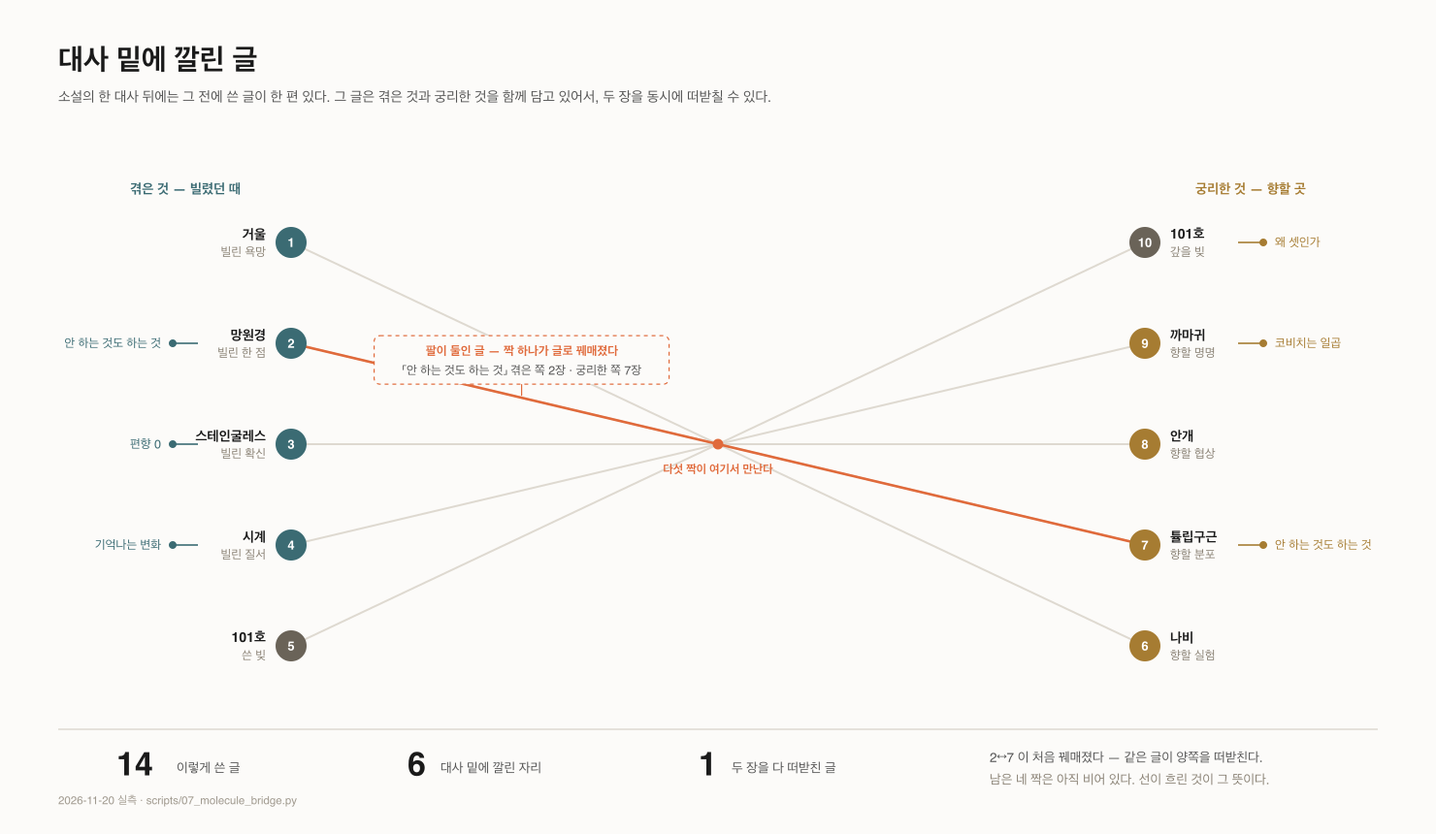
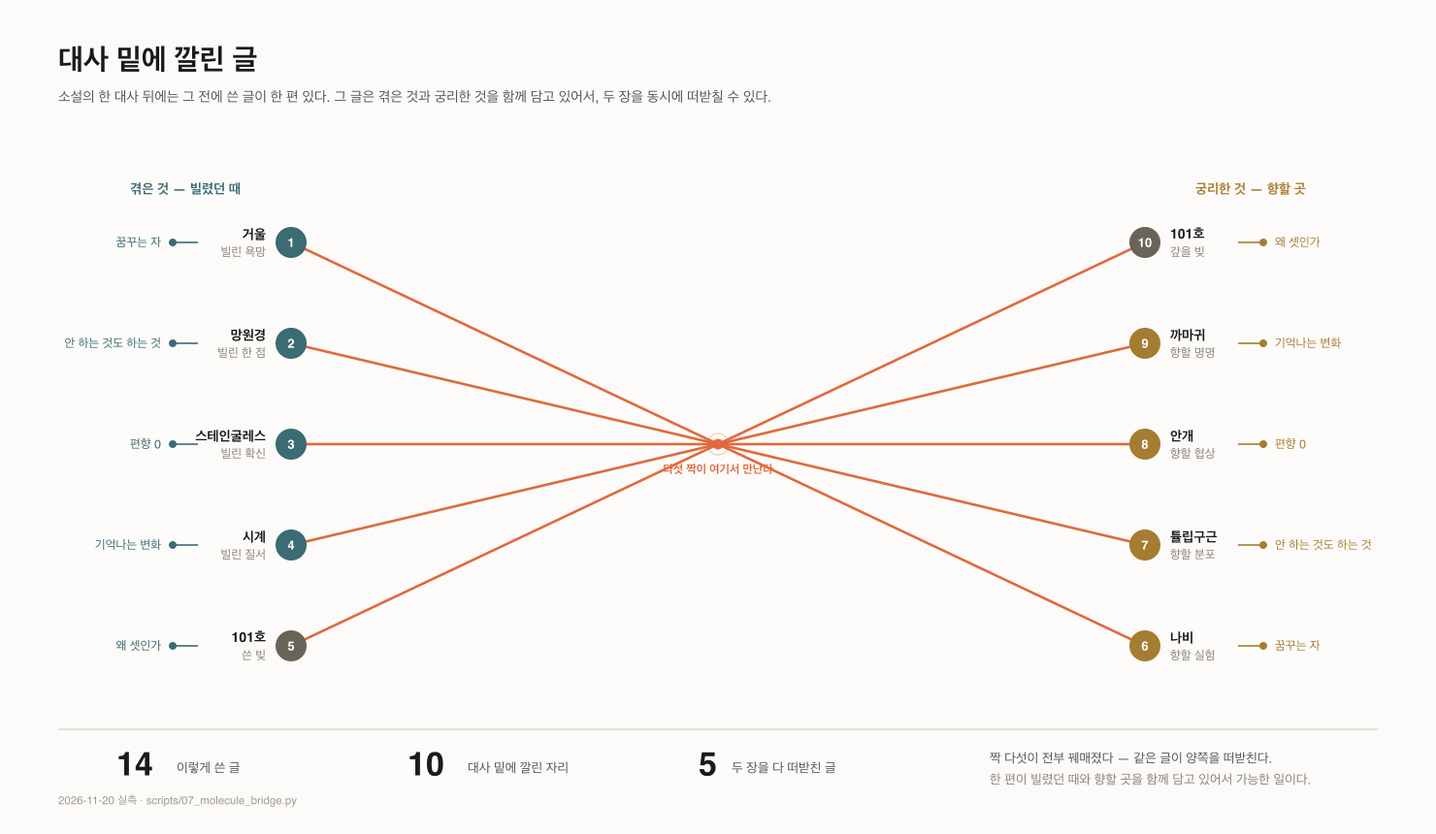
sync: from tolzul 006555f3 edit: 🍇 7장 세다의 줄에 글 하나를 깐다 — 2↔7 이 처음 꿰매졌다

diff --git a/interactive/eight_seats.html b/interactive/eight_seats.html
@@ -229,8 +229,8 @@ footer a{color:var(--dim)}
 <g class="seat hubbadge" data-ch="10" tabindex="0" role="button" aria-label="10장 101₃호"><rect x="426" y="245" width="148" height="26" rx="13" /><text x="500" y="262">10장 101₃호 · 여기서 닫는다</text></g>
 </g>
 <g class="seat" data-ch="1" tabindex="0" role="button" aria-label="1장 거울새장 — 욕망">
-<path class="arc" stroke="#5B8CFF" d="M 387.01 169.18 A 38 38 0 0 1 413.92 184.83" />
-<path class="arc rest" d="M 413.92 184.83 A 38 38 0 0 1 417.75 222.43" />
+<path class="arc" stroke="#5B8CFF" d="M 387.01 169.18 A 38 38 0 0 1 414.03 184.98" />
+<path class="arc rest" d="M 414.03 184.98 A 38 38 0 0 1 417.75 222.43" />
 <path class="arc" stroke="#5B8CFF" d="M 413.78 229.31 A 38 38 0 0 1 406.11 237.17" />
 <path class="arc rest" d="M 406.11 237.17 A 38 38 0 0 1 352.30 229.31" />
 <path class="arc" stroke="#5B8CFF" d="M 348.32 222.43 A 38 38 0 0 1 360.89 176.10" />
@@ -276,8 +276,8 @@ footer a{color:var(--dim)}
 <text class="seatsub" x="383.0" y="598.0" text-anchor="middle">시계새장 · </text>
 </g>
 <g class="seat" data-ch="6" tabindex="0" role="button" aria-label="6장 나비 — 고통">
-<path class="arc" stroke="#5B8CFF" d="M 620.93 475.23 A 38 38 0 0 1 654.72 508.70" />
-<path class="arc rest" d="M 654.72 508.70 A 38 38 0 0 1 651.68 528.48" />
+<path class="arc" stroke="#5B8CFF" d="M 620.93 475.23 A 38 38 0 0 1 654.74 508.89" />
+<path class="arc rest" d="M 654.74 508.89 A 38 38 0 0 1 651.68 528.48" />
 <path class="arc" stroke="#5B8CFF" d="M 647.70 535.36 A 38 38 0 0 1 593.91 543.24" />
 <path class="arc rest" d="M 593.91 543.24 A 38 38 0 0 1 586.22 535.36" />
 <path class="arc" stroke="#5B8CFF" d="M 582.25 528.48 A 38 38 0 0 1 603.73 477.40" />
@@ -328,9 +328,9 @@ footer a{color:var(--dim)}
 <div class="ladder">
 <div class="lhead"><span>다 · 빚을 쓴다</span><span class="lmid">짝</span><span>세 · 빚을 갚는다</span></div>
 <div class="lrow" style="--c:#5B8CFF">
-<button class="lcell" data-ch="1"><span class="lgori">다 · 빚을 쓴다</span><span class="lno">1</span><span class="lsym">🪞</span><span class="lseat">욕망</span><span class="lroom">거울새장 · </span><span class="bars"><i class="b" style="width:45%" title="경험 1888자"></i><i class="b" style="width:9%" title="지식 359자"></i><i class="b" style="width:21%" title="사례 877자"></i></span></button>
+<button class="lcell" data-ch="1"><span class="lgori">다 · 빚을 쓴다</span><span class="lno">1</span><span class="lsym">🪞</span><span class="lseat">욕망</span><span class="lroom">거울새장 · </span><span class="bars"><i class="b" style="width:45%" title="경험 1899자"></i><i class="b" style="width:9%" title="지식 359자"></i><i class="b" style="width:21%" title="사례 877자"></i></span></button>
 <span class="lline"><i></i><em>못 잰다</em><small>합의할 단위가 없다</small></span>
-<button class="lcell" data-ch="6"><span class="lgori">세 · 빚을 갚는다</span><span class="lno">6</span><span class="lsym">🦋</span><span class="lseat">고통</span><span class="lroom">나비 · 원함</span><span class="bars"><i class="b" style="width:72%" title="경험 3025자"></i><i class="b" style="width:47%" title="지식 1974자"></i><i class="b" style="width:25%" title="사례 1048자"></i></span></button>
+<button class="lcell" data-ch="6"><span class="lgori">세 · 빚을 갚는다</span><span class="lno">6</span><span class="lsym">🦋</span><span class="lseat">고통</span><span class="lroom">나비 · 원함</span><span class="bars"><i class="b" style="width:72%" title="경험 3036자"></i><i class="b" style="width:47%" title="지식 1974자"></i><i class="b" style="width:25%" title="사례 1048자"></i></span></button>
 </div>
 <div class="lrow" style="--c:#A277E8">
 <button class="lcell" data-ch="2"><span class="lgori">다 · 빚을 쓴다</span><span class="lno">2</span><span class="lsym">🔭</span><span class="lseat">상상</span><span class="lroom">망원경새장 · </span><span class="bars"><i class="b" style="width:100%" title="경험 4217자"></i><i class="b" style="width:10%" title="지식 408자"></i><i class="b" style="width:16%" title="사례 675자"></i></span></button>
@@ -364,15 +364,15 @@ footer a{color:var(--dim)}
 <p class="note">여덟 장 × 세 파트 = <b>24칸</b>. 찬 칸 <b>24</b>, 빈 칸 <b>0</b>.
 글자수는 본문만 센 것이다(인용줄·표·머리 제외).</p>
 <table class="led"><thead><tr><th>장</th><th>자리</th><th>§1 경험</th><th>§2 지식</th><th>§3 사례</th></tr></thead><tbody>
-<tr><td class="c">1 🪞</td><td class="s">욕망</td><td class="n">1,888</td><td class="n">359</td><td class="n">877</td></tr>
+<tr><td class="c">1 🪞</td><td class="s">욕망</td><td class="n">1,899</td><td class="n">359</td><td class="n">877</td></tr>
 <tr><td class="c">2 🔭</td><td class="s">상상</td><td class="n">4,217</td><td class="n">408</td><td class="n">675</td></tr>
 <tr><td class="c">3 💒</td><td class="s">설득</td><td class="n">3,592</td><td class="n">546</td><td class="n">653</td></tr>
 <tr><td class="c">4 ⏱</td><td class="s">폭파</td><td class="n">3,901</td><td class="n">476</td><td class="n">612</td></tr>
-<tr><td class="c">6 🦋</td><td class="s">고통</td><td class="n">3,025</td><td class="n">1,974</td><td class="n">1,048</td></tr>
+<tr><td class="c">6 🦋</td><td class="s">고통</td><td class="n">3,036</td><td class="n">1,974</td><td class="n">1,048</td></tr>
 <tr><td class="c">7 🧅</td><td class="s">지식</td><td class="n">3,239</td><td class="n">970</td><td class="n">1,209</td></tr>
 <tr><td class="c">8 🌫</td><td class="s">손익</td><td class="n">3,069</td><td class="n">1,671</td><td class="n">1,124</td></tr>
 <tr><td class="c">9 🐦⬛</td><td class="s">기준</td><td class="n">3,334</td><td class="n">2,334</td><td class="n">880</td></tr>
-<tr class="sum"><td class="c">합</td><td class="s"></td><td class="n">26,265</td><td class="n">8,738</td><td class="n">7,078</td></tr>
+<tr class="sum"><td class="c">합</td><td class="s"></td><td class="n">26,287</td><td class="n">8,738</td><td class="n">7,078</td></tr>
 </tbody></table>
 <div class="punch"><b>24칸이 다 찼다</b> — 새장 넷도 둥지 넷도 §1 경험·§2 지식·§3 사례가 모두 있다. 5·10장은 세 파트를 아예 안 쓴다(이음새, 장면 하나) — 구멍이 아니라 설계다.</div>
 
@@ -389,7 +389,7 @@ footer a{color:var(--dim)}
 </footer>
 </div>
 <script>
-const D = {"1": {"no": 1, "sym": "🪞", "room": "거울새장", "seat": "욕망", "unit": "bit", "verb": "", "gori": "다 · 빚을 쓴다", "gorisub": "체순환 · 앞서 달린다", "jam": "못 잰다", "jamsub": "합의할 단위가 없다", "pair": 6, "line": "<b>모방</b> 남이 꿈꾼 파리를 꿈꾼다 → <b>위안</b> 이건 진짜 내가 원한 거야 → <b>붕괴</b> 청구서가 쌓인다", "triad": "<b>모방</b> 남이 꿈꾼 파리를 꿈꾼다 → <b>위안</b> 이건 진짜 내가 원한 거야 → <b>붕괴</b> 청구서가 쌓인다", "opener": "가장 나다운 욕망일수록, 가장 남의 것이다.", "parts": {"경험": 1888, "지식": 359, "사례": 877}, "web": "ch1_mirror_cage"}, "2": {"no": 2, "sym": "🔭", "room": "망원경새장", "seat": "상상", "unit": "atom", "verb": "", "gori": "다 · 빚을 쓴다", "gorisub": "체순환 · 앞서 달린다", "jam": "못 잰다", "jamsub": "합의할 단위가 없다", "pair": 7, "line": "<b>모방</b> 아버지들의 시선을 물려받는다 → <b>위안</b> 다 보이니 움직일 필요 없다 → <b>붕괴</b> 가리발디가 상륙한다", "triad": "<b>모방</b> 아버지들의 시선을 물려받는다 → <b>위안</b> 다 보이니 움직일 필요 없다 → <b>붕괴</b> 가리발디가 상륙한다", "opener": "", "parts": {"경험": 4217, "지식": 408, "사례": 675}, "web": "ch2_telescope_cage"}, "3": {"no": 3, "sym": "💒", "room": "스테인굴레스새장", "seat": "설득", "unit": "cell", "verb": "", "gori": "다 · 빚을 쓴다", "gorisub": "체순환 · 앞서 달린다", "jam": "잰다", "jamsub": "$ · 시간 · 확률", "pair": 8, "line": "<b>모방</b> 배운 교리로 역병을 읽는다 → <b>위안</b> 역병은 신의 벌이다 → <b>붕괴</b> 아이가 죽는다", "triad": "<b>모방</b> 배운 교리로 역병을 읽는다 → <b>위안</b> 역병은 신의 벌이다 → <b>붕괴</b> 아이가 죽는다", "opener": "---", "parts": {"경험": 3592, "지식": 546, "사례": 653}, "web": "ch3_glass_cage"}, "4": {"no": 4, "sym": "⏱", "room": "시계새장", "seat": "폭파", "unit": "second", "verb": "", "gori": "다 · 빚을 쓴다", "gorisub": "체순환 · 앞서 달린다", "jam": "잰다", "jamsub": "$ · 시간 · 확률", "pair": 9, "line": "<b>모방</b> 빌린 문명을 섬에 세운다 → <b>위안</b> 문명이 나를 지킨다 → <b>붕괴</b> 화약 동굴이 터진다", "triad": "<b>모방</b> 빌린 문명을 섬에 세운다 → <b>위안</b> 문명이 나를 지킨다 → <b>붕괴</b> 화약 동굴이 터진다", "opener": "---", "parts": {"경험": 3901, "지식": 476, "사례": 612}, "web": "ch4_clock_cage"}, "6": {"no": 6, "sym": "🦋", "room": "나비", "seat": "고통", "unit": "bit", "verb": "원함", "gori": "세 · 빚을 갚는다", "gorisub": "폐순환 · 지켜보며 갚는다", "jam": "못 잰다", "jamsub": "합의할 단위가 없다", "pair": 1, "line": "빌린 옷은, 옷인 줄 알고 입을 때부터 몸에 맞기 시작한다.", "triad": "", "opener": "송 릴링은 20년간 상대를 속인 게 아니다. 자기가 입은 게 진짜 <i>살</i>이 아니라 <i>옷</i>임을 처음부터 알았다. 엠마(1장)는 빌린 욕망을 살인 줄 알고 삼켜졌고, 송은 옷인 줄 알고 입었다— <b>단어 하나 차이.</b>", "parts": {"경험": 3025, "지식": 1974, "사례": 1048}, "web": "ch6_butterfly_nest"}, "7": {"no": 7, "sym": "🧅", "room": "튤립", "seat": "지식", "unit": "atom", "verb": "됨", "gori": "세 · 빚을 갚는다", "gorisub": "폐순환 · 지켜보며 갚는다", "jam": "못 잰다", "jamsub": "합의할 단위가 없다", "pair": 2, "line": "정확히 보는 눈은 아무것도 피우지 못한다— 한 알을 손바닥에 올리는 손이 있기 전까지는.", "triad": "", "opener": "2장이 넘겨준 문장이 이 장의 자물쇠다— &quot;망원경은 별을 당겨 보여주지만, 별까지 데려다주진 않아요.&quot; 살리나는 그 렌즈를 <b>품위</b>라 불렀고, 복스텔은 같은 렌즈를 <b>시기</b>에 썼다.", "parts": {"경험": 3239, "지식": 970, "사례": 1209}, "web": "ch7_tulip_nest"}, "8": {"no": 8, "sym": "🌫", "room": "안개", "seat": "손익", "unit": "cell", "verb": "버팀", "gori": "세 · 빚을 갚는다", "gorisub": "폐순환 · 지켜보며 갚는다", "jam": "잰다", "jamsub": "$ · 시간 · 확률", "pair": 3, "line": "확신은 스테인굴레스고 협상은 안개다— 바깥이 보이는 쪽은, 뿌연 쪽이다.", "triad": "", "opener": "3장이 넘겨준 자물쇠는 말의 <b>방향</b>이다. 파늘루는 설교했다— 말이 한쪽으로만 간다. 유리가 투명할수록 설교하는 쪽은 바깥을 본다고 믿고, 듣는 쪽은 유리를 두드릴 자리를 못 찾는다. 안개는 그 유리를 뿌옇게 만들어 <b>말이 되돌아올 틈</b>을 낸다. 확신과 협상은 같은 입의 두 방향이다— 하나는 내 확신을 상대에게 옮기고, 하나는 상대의 되물음을 내가 받는다. 그래서 서명 전에 세어야 할 것은 내가 몇 번 설득했나가 아니라 <b>몇 번 되물음을 받았나</b>다.", "parts": {"경험": 3069, "지식": 1671, "사례": 1124}, "web": "ch8_mist_nest"}, "9": {"no": 9, "sym": "🐦⬛", "room": "까마귀", "seat": "기준", "unit": "second", "verb": "함", "gori": "세 · 빚을 갚는다", "gorisub": "폐순환 · 지켜보며 갚는다", "jam": "잰다", "jamsub": "$ · 시간 · 확률", "pair": 4, "line": "입에 문 빛은 삼키면 블랙홀이고, 나눠 던지면 궤도가 된다.", "triad": "", "opener": "4장은 합력이다— 1·2·3장의 빚이 합쳐져 폭발한다(Σ cage). 9장도 합력이다— 6·7·8장의 원함·됨·버팀이 모여 <i>함</i>이 된다(Σ nest). <b>두 합력이 서로의 거울이다.</b> 다만 4장의 합은 밖으로 터지고, 9장의 합은 안으로 모인다. 곱셈이라 6·7·8 중 하나라도 0이면 9는 공허하다.", "parts": {"경험": 3334, "지식": 2334, "사례": 880}, "web": "ch9_raven_nest"}, "5": {"no": 5, "sym": "🐀", "room": "101₂호", "unit": "bit", "seat": "기억", "verb": "이음새", "gori": "101 · 한 점", "gorisub": "두 번 지난다", "jam": "세 파트를 안 쓴다", "jamsub": "장면 하나다 — 구멍이 아니라 설계", "pair": 10, "line": "부순 사람이 제일 먼저 하는 일은 다시 짓는 게 아니다. 앉는 것이다.", "triad": "", "opener": "", "parts": {}, "web": "ch5_mirror_nest"}, "10": {"no": 10, "sym": "🧫", "room": "101₃호", "unit": "cell", "seat": "기억", "verb": "이음새", "gori": "101 · 한 점", "gorisub": "두 번 지난다", "jam": "세 파트를 안 쓴다", "jamsub": "장면 하나다 — 구멍이 아니라 설계", "pair": 5, "line": "빚을 쓴 방과 빚을 갚는 방은 같은 방이다.", "triad": "", "opener": "", "parts": {}, "web": "ch10_mirror_close"}};
+const D = {"1": {"no": 1, "sym": "🪞", "room": "거울새장", "seat": "욕망", "unit": "bit", "verb": "", "gori": "다 · 빚을 쓴다", "gorisub": "체순환 · 앞서 달린다", "jam": "못 잰다", "jamsub": "합의할 단위가 없다", "pair": 6, "line": "<b>모방</b> 남이 꿈꾼 파리를 꿈꾼다 → <b>위안</b> 이건 진짜 내가 원한 거야 → <b>붕괴</b> 청구서가 쌓인다", "triad": "<b>모방</b> 남이 꿈꾼 파리를 꿈꾼다 → <b>위안</b> 이건 진짜 내가 원한 거야 → <b>붕괴</b> 청구서가 쌓인다", "opener": "가장 나다운 욕망일수록, 가장 남의 것이다.", "parts": {"경험": 1899, "지식": 359, "사례": 877}, "web": "ch1_mirror_cage"}, "2": {"no": 2, "sym": "🔭", "room": "망원경새장", "seat": "상상", "unit": "atom", "verb": "", "gori": "다 · 빚을 쓴다", "gorisub": "체순환 · 앞서 달린다", "jam": "못 잰다", "jamsub": "합의할 단위가 없다", "pair": 7, "line": "<b>모방</b> 아버지들의 시선을 물려받는다 → <b>위안</b> 다 보이니 움직일 필요 없다 → <b>붕괴</b> 가리발디가 상륙한다", "triad": "<b>모방</b> 아버지들의 시선을 물려받는다 → <b>위안</b> 다 보이니 움직일 필요 없다 → <b>붕괴</b> 가리발디가 상륙한다", "opener": "", "parts": {"경험": 4217, "지식": 408, "사례": 675}, "web": "ch2_telescope_cage"}, "3": {"no": 3, "sym": "💒", "room": "스테인굴레스새장", "seat": "설득", "unit": "cell", "verb": "", "gori": "다 · 빚을 쓴다", "gorisub": "체순환 · 앞서 달린다", "jam": "잰다", "jamsub": "$ · 시간 · 확률", "pair": 8, "line": "<b>모방</b> 배운 교리로 역병을 읽는다 → <b>위안</b> 역병은 신의 벌이다 → <b>붕괴</b> 아이가 죽는다", "triad": "<b>모방</b> 배운 교리로 역병을 읽는다 → <b>위안</b> 역병은 신의 벌이다 → <b>붕괴</b> 아이가 죽는다", "opener": "---", "parts": {"경험": 3592, "지식": 546, "사례": 653}, "web": "ch3_glass_cage"}, "4": {"no": 4, "sym": "⏱", "room": "시계새장", "seat": "폭파", "unit": "second", "verb": "", "gori": "다 · 빚을 쓴다", "gorisub": "체순환 · 앞서 달린다", "jam": "잰다", "jamsub": "$ · 시간 · 확률", "pair": 9, "line": "<b>모방</b> 빌린 문명을 섬에 세운다 → <b>위안</b> 문명이 나를 지킨다 → <b>붕괴</b> 화약 동굴이 터진다", "triad": "<b>모방</b> 빌린 문명을 섬에 세운다 → <b>위안</b> 문명이 나를 지킨다 → <b>붕괴</b> 화약 동굴이 터진다", "opener": "---", "parts": {"경험": 3901, "지식": 476, "사례": 612}, "web": "ch4_clock_cage"}, "6": {"no": 6, "sym": "🦋", "room": "나비", "seat": "고통", "unit": "bit", "verb": "원함", "gori": "세 · 빚을 갚는다", "gorisub": "폐순환 · 지켜보며 갚는다", "jam": "못 잰다", "jamsub": "합의할 단위가 없다", "pair": 1, "line": "빌린 옷은, 옷인 줄 알고 입을 때부터 몸에 맞기 시작한다.", "triad": "", "opener": "송 릴링은 20년간 상대를 속인 게 아니다. 자기가 입은 게 진짜 <i>살</i>이 아니라 <i>옷</i>임을 처음부터 알았다. 엠마(1장)는 빌린 욕망을 살인 줄 알고 삼켜졌고, 송은 옷인 줄 알고 입었다— <b>단어 하나 차이.</b>", "parts": {"경험": 3036, "지식": 1974, "사례": 1048}, "web": "ch6_butterfly_nest"}, "7": {"no": 7, "sym": "🧅", "room": "튤립", "seat": "지식", "unit": "atom", "verb": "됨", "gori": "세 · 빚을 갚는다", "gorisub": "폐순환 · 지켜보며 갚는다", "jam": "못 잰다", "jamsub": "합의할 단위가 없다", "pair": 2, "line": "정확히 보는 눈은 아무것도 피우지 못한다— 한 알을 손바닥에 올리는 손이 있기 전까지는.", "triad": "", "opener": "2장이 넘겨준 문장이 이 장의 자물쇠다— &quot;망원경은 별을 당겨 보여주지만, 별까지 데려다주진 않아요.&quot; 살리나는 그 렌즈를 <b>품위</b>라 불렀고, 복스텔은 같은 렌즈를 <b>시기</b>에 썼다.", "parts": {"경험": 3239, "지식": 970, "사례": 1209}, "web": "ch7_tulip_nest"}, "8": {"no": 8, "sym": "🌫", "room": "안개", "seat": "손익", "unit": "cell", "verb": "버팀", "gori": "세 · 빚을 갚는다", "gorisub": "폐순환 · 지켜보며 갚는다", "jam": "잰다", "jamsub": "$ · 시간 · 확률", "pair": 3, "line": "확신은 스테인굴레스고 협상은 안개다— 바깥이 보이는 쪽은, 뿌연 쪽이다.", "triad": "", "opener": "3장이 넘겨준 자물쇠는 말의 <b>방향</b>이다. 파늘루는 설교했다— 말이 한쪽으로만 간다. 유리가 투명할수록 설교하는 쪽은 바깥을 본다고 믿고, 듣는 쪽은 유리를 두드릴 자리를 못 찾는다. 안개는 그 유리를 뿌옇게 만들어 <b>말이 되돌아올 틈</b>을 낸다. 확신과 협상은 같은 입의 두 방향이다— 하나는 내 확신을 상대에게 옮기고, 하나는 상대의 되물음을 내가 받는다. 그래서 서명 전에 세어야 할 것은 내가 몇 번 설득했나가 아니라 <b>몇 번 되물음을 받았나</b>다.", "parts": {"경험": 3069, "지식": 1671, "사례": 1124}, "web": "ch8_mist_nest"}, "9": {"no": 9, "sym": "🐦⬛", "room": "까마귀", "seat": "기준", "unit": "second", "verb": "함", "gori": "세 · 빚을 갚는다", "gorisub": "폐순환 · 지켜보며 갚는다", "jam": "잰다", "jamsub": "$ · 시간 · 확률", "pair": 4, "line": "입에 문 빛은 삼키면 블랙홀이고, 나눠 던지면 궤도가 된다.", "triad": "", "opener": "4장은 합력이다— 1·2·3장의 빚이 합쳐져 폭발한다(Σ cage). 9장도 합력이다— 6·7·8장의 원함·됨·버팀이 모여 <i>함</i>이 된다(Σ nest). <b>두 합력이 서로의 거울이다.</b> 다만 4장의 합은 밖으로 터지고, 9장의 합은 안으로 모인다. 곱셈이라 6·7·8 중 하나라도 0이면 9는 공허하다.", "parts": {"경험": 3334, "지식": 2334, "사례": 880}, "web": "ch9_raven_nest"}, "5": {"no": 5, "sym": "🐀", "room": "101₂호", "unit": "bit", "seat": "기억", "verb": "이음새", "gori": "101 · 한 점", "gorisub": "두 번 지난다", "jam": "세 파트를 안 쓴다", "jamsub": "장면 하나다 — 구멍이 아니라 설계", "pair": 10, "line": "부순 사람이 제일 먼저 하는 일은 다시 짓는 게 아니다. 앉는 것이다.", "triad": "", "opener": "", "parts": {}, "web": "ch5_mirror_nest"}, "10": {"no": 10, "sym": "🧫", "room": "101₃호", "unit": "cell", "seat": "기억", "verb": "이음새", "gori": "101 · 한 점", "gorisub": "두 번 지난다", "jam": "세 파트를 안 쓴다", "jamsub": "장면 하나다 — 구멍이 아니라 설계", "pair": 5, "line": "빚을 쓴 방과 빚을 갚는 방은 같은 방이다.", "triad": "", "opener": "", "parts": {}, "web": "ch10_mirror_close"}};
 const ORDER = [1,2,3,4,5,6,7,8,9,10];
 const HINT = {
  snake:'<b>뱀</b> — 한 획이다. 1·2·3·4 로 왼 고리를 돌고 가운데(<b>5장</b>)에서 <b>돌아서</b> 9·8·7·6 을 되짚은 뒤 같은 점(<b>10장</b>)에서 닫는다. 책 순서는 6→9 인데 몸의 순서는 9→6 이다 — <b>뒤집으면 방향도 뒤집히기</b> 때문이고, 5장 이름이 「회전축」인 자리가 거기다. 순서가 뒤집혀도 같은 몸이면 <b>시간 순서가 뜻을 못 바꾼다</b> — <b>부분적 교환가능성</b>이 작도로 선 자리다(#158).',

diff --git a/chapters/ch1_mirror_cage.md b/chapters/ch1_mirror_cage.md
@@ -15,7 +15,7 @@
 
 > **네 빚.** 지금 네가 가장 원하는 것 하나를 떠올려 봐라— 그 회사, 그 커리어, 그 제품, 그 앱. 그게 정말 네 것인가, 아니면 누군가 원하는 걸 네가 본 것인가. 할머니를 위해 앱을 짓는다면서, 실은 데모데이의 박수를 짓고 있는 건 아닌가. 이게 빌린 욕망인가— 이 장은 그 옷의 솔기를 더듬는다.
 
-이 책은 열 개의 방을 지난다. 첫 방의 이름은 거울새장이다. 새장은 문이 열려 있어도 새가 안 나가는 구조물이다. 엠마 보바리는 이 방에서 빌린 옷을 자기 살로 착각한 채 죽는다. **cage = 욕망을 *모르고* 입기.**
+이 책은 열 개의 방을 지난다. 첫 방의 이름은 거울새장이다. 새장은 문이 열려 있어도 새가 안 나가는 구조물이다. 엠마 보바리는 이 방에서 빌린 옷을 자기 살로 착각한 채 죽는다. **cage = 욕망을 *모르고* 입기.** <sup>[글](../docs/essays/49_dreamer_believes.md)</sup>
 
 그리고 이 거울은 여섯 번째 방에서 다시 돌아온다. 6🦋_나비사용자의 송 릴링은 똑같은 거울 앞에 선다. 다른 것은 단 하나— 그는 자기가 무엇을 입고 있는지 *안다*. 연기하는 자기를 거울에서 본다. 엠마는 빌린 옷을 벗을 줄 몰랐고, 나비는 언제든 벗을 수 있는 옷으로 입는다. 같은 거울, 뒤집힌 앎. 모르고 입기(1장) ↔ 알면서 입기(6장). 한 글자만 비틀면 새장이 둥지가 된다.
 

diff --git a/chapters/ch6_butterfly_nest.md b/chapters/ch6_butterfly_nest.md
@@ -27,7 +27,7 @@
 
 송 릴링은 20년간 상대를 속인 게 아니다. 자기가 입은 게 진짜 *살*이 아니라 *옷*임을 처음부터 알았다. 엠마(1장)는 빌린 욕망을 살인 줄 알고 삼켜졌고, 송은 옷인 줄 알고 입었다— **단어 하나 차이.**
 
-이것이 '충분히 쓸 만함'의 *몸*이다. 5장이 말한 것을 6장이 입는다. 이론이 틀렸음을 알면서 쓰고, 솔기를 보면서 걸친다. 놀랍게도— 솔기를 볼수록 옷은 더 잘 맞는다. 시뮬레이션을 *믿음*으로 굳히지 않고 *시뮬레이션인 줄 알고* 굴리는 것, 그것이 나비의 동사다.
+이것이 '충분히 쓸 만함'의 *몸*이다. 5장이 말한 것을 6장이 입는다. 이론이 틀렸음을 알면서 쓰고, 솔기를 보면서 걸친다. 놀랍게도— 솔기를 볼수록 옷은 더 잘 맞는다. 시뮬레이션을 *믿음*으로 굳히지 않고 *시뮬레이션인 줄 알고* 굴리는 것, 그것이 나비의 동사다. <sup>[글](../docs/essays/49_dreamer_believes.md)</sup>
 
 #### 1.3 곁— 황의 거울
 

diff --git a/chapters/ch8_mist_nest.md b/chapters/ch8_mist_nest.md
@@ -28,7 +28,7 @@
 
 > 3장의 마지막 일기가 이 장의 제목을 이미 말해두었다— *"리외의 투명 유리도 결국 유리다. 닦지 않으면 뿌예진다."* **뿌예진 유리가 안개다.** 진짜 짝은 3장 맨 끝줄에서 기다리고 있었다.
 >
-> 같은 소리, 다른 한자. 파늘루가 갇힌 것은 유리(琉璃)였고, 창업자가 협상 테이블에서 좇는 것은 유리(有利)한 조건이다. 유리한 조건만 좇는 설득은 제 손으로 유리를 다시 세우는 일— 협상이 벌어야 할 것은 有利가 아니라, 되물음이 통과하는 뿌연 쪽이다.
+> 같은 소리, 다른 한자. 파늘루가 갇힌 것은 유리(琉璃)였고, 창업자가 협상 테이블에서 좇는 것은 유리(有利)한 조건이다. 유리한 조건만 좇는 설득은 제 손으로 유리를 다시 세우는 일— 협상이 벌어야 할 것은 有利가 아니라, 되물음이 통과하는 뿌연 쪽이다. <sup>[글](../docs/essays/33_zero_bias.md)</sup>
 
 **같은 유리, 세 자리.**
 

diff --git a/scripts/img_ledger.md b/scripts/img_ledger.md
@@ -29,8 +29,8 @@
 | 🚨 | `ch9.svg` | 10 | `interactive/reader.html` | 0 | 0 | **없다** |
 | 🚨 | `epigraph_debt.png` | 205 | **아무도 안 씀** | 0 | 0 | **없다** |
 | 🚨 | `hero.png` | 355 | `index.html` | 0 | 0 | **없다** |
-| ✅ | `molecule_bridge.png` | 110 | `scripts/07_molecule_bridge.py` | 0 | 0 | 07_molecule_bridge.py |
-| ✅ | `molecule_bridge.svg` | 12 | `scripts/07_molecule_bridge.py` | 0 | 0 | 07_molecule_bridge.py |
+| ✅ | `molecule_bridge.png` | 112 | `scripts/07_molecule_bridge.py` | 0 | 0 | 07_molecule_bridge.py |
+| ✅ | `molecule_bridge.svg` | 14 | `scripts/07_molecule_bridge.py` | 0 | 0 | 07_molecule_bridge.py |
 | 🚨 | `og_center.png` | 831 | `README.md` | 0 | 1 | **없다** |
 | 🚨 | `poem_sense.png` | 231 | **아무도 안 씀** | 0 | 0 | **없다** |
 | 🚨 | `product_map_4panels_2026-11-15.png` | 1375 | **아무도 안 씀** | 3 | 0 | **없다** |

diff --git a/chapters/ch9_raven_nest.md b/chapters/ch9_raven_nest.md
@@ -18,7 +18,7 @@
 
 > **입에 문 빛은 삼키면 블랙홀이고, 나눠 던지면 궤도가 된다.**
 >
-> **돌아온 것이 「모르겠습니다」여도 돈 것이다.** 궤도는 좋은 소식이 아니라 돌아옴이고, 돌아오는 것은 칭찬이 아니라 자(尺)다.
+> **돌아온 것이 「모르겠습니다」여도 돈 것이다.** 궤도는 좋은 소식이 아니라 돌아옴이고, 돌아오는 것은 칭찬이 아니라 자(尺)다. <sup>[글](../docs/essays/32_remembered_change.md)</sup>
 
 까마귀는 빛을 가지지 않았다. 물고 날아가 던졌을 뿐이다. 6·7·8장의 세 사람이 각각 원하고 짓고 버텨도, 아무도 던지지 않으면 빛은 한 입 안에서 꺼진다. 이 장이 묻는 한 글자는 **함**이다— 셋이 모여 마침내 행동이 되는가.
 

diff --git a/chapters/ch5_mirror_nest.md b/chapters/ch5_mirror_nest.md
@@ -12,7 +12,7 @@
 
 부순 사람이 제일 먼저 하는 일은 다시 짓는 게 아니다. 앉는 것이다.
 
-문에는 숫자가 셋 붙어 있다. 1, 0, 1. 세 자리인데 쓸 수 있는 글자는 둘뿐이다. 0과 1.
+문에는 숫자가 셋 붙어 있다. 1, 0, 1. 세 자리인데 쓸 수 있는 글자는 둘뿐이다. 0과 1. <sup>[글](../docs/essays/39_why_three.md)</sup>
 
 손잡이는 차다. 여름인데 차다. 이 방은 바깥 온도를 따라오지 않는다.
 
